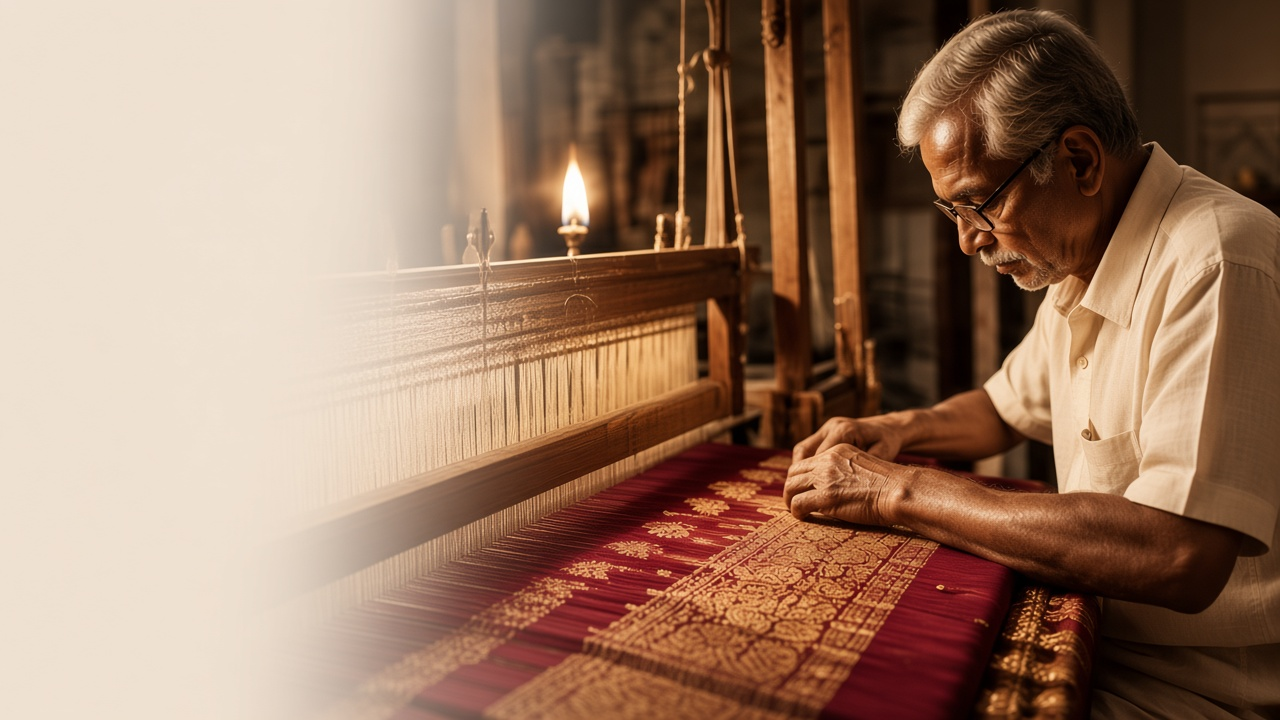
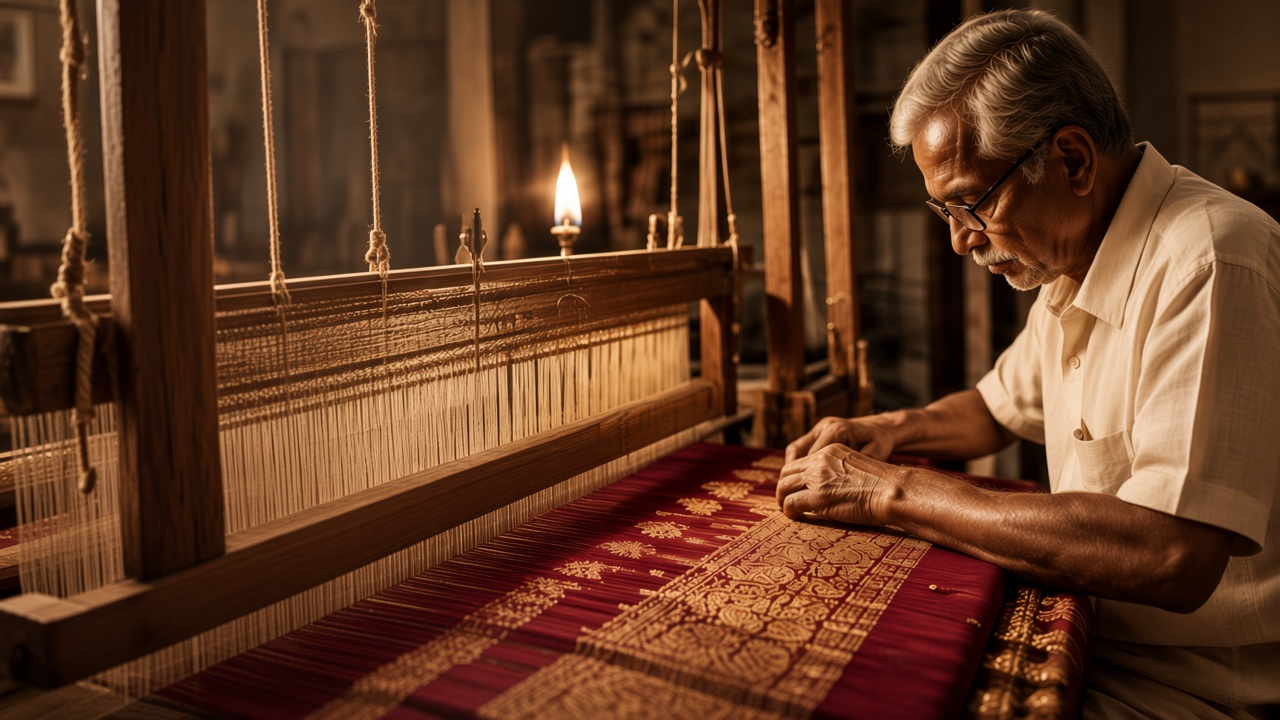
Let the preview shop buy without a sign-in, remove a piece at checkout, and show the loom without the white fade.

diff --git a/components/checkout/CheckoutView.tsx b/components/checkout/CheckoutView.tsx
@@ -5,8 +5,7 @@ import Link from "next/link";
 import { useEffect, useState } from "react";
 import { readAccount, type Account } from "@/lib/account";
 import { readAddresses, type Address } from "@/lib/addresses";
-import { bagTotal, bagUnits, formatInr, readBag, type BagItem } from "@/lib/bag";
-import { beginIntent } from "@/lib/intent";
+import { bagTotal, bagUnits, formatInr, readBag, removeBagItem, type BagItem } from "@/lib/bag";
 
 const STEPS = [
   ["01", "Contact"],
@@ -49,19 +48,6 @@ export default function CheckoutView() {
     );
   }
 
-  if (!account) {
-    return (
-      <div className="checkout__inner checkout__gate">
-        <p className="checkout__kicker">Checkout</p>
-        <h1>Sign in to continue</h1>
-        <p className="checkout__lead">There is no guest checkout. Your bag stays as it is, and you return here after signing in.</p>
-        <button type="button" className="checkout__btn" onClick={() => beginIntent({ type: "checkout", next: "/checkout" })}>
-          Sign in
-        </button>
-      </div>
-    );
-  }
-
   if (items.length === 0) {
     return (
       <div className="checkout__inner checkout__gate">
@@ -81,7 +67,7 @@ export default function CheckoutView() {
       <p className="checkout__kicker">Checkout</p>
       <h1>Review your silk</h1>
       <p className="checkout__lead">
-        Contact comes from your account. Payment is not connected, so this review cannot place an order.
+        Payment is not connected, so this review cannot place an order.
       </p>
       <ol className="checkout__steps">
         {STEPS.map(([index, label]) => (
@@ -97,8 +83,17 @@ export default function CheckoutView() {
           <section className="checkout__panel" aria-labelledby="checkout-contact">
             <p className="checkout__kicker">01</p>
             <h2 id="checkout-contact">Contact</h2>
-            <p className="checkout__address">{account.name}</p>
-            <p className="checkout__mail">{account.email}</p>
+            {account ? (
+              <>
+                <p className="checkout__address">{account.name}</p>
+                <p className="checkout__mail">{account.email}</p>
+              </>
+            ) : (
+              <>
+                <p className="checkout__address">Guest</p>
+                <p className="checkout__mail">Sign-in is not required for this preview.</p>
+              </>
+            )}
           </section>
 
           <section className="checkout__panel" aria-labelledby="checkout-address">
@@ -162,6 +157,9 @@ export default function CheckoutView() {
                   <h3><Link href={item.href}>{item.name}</Link></h3>
                   {item.detail ? <p>{item.detail}</p> : null}
                   <p>Qty {item.qty} · {formatInr(item.price * item.qty)}</p>
+                  <button type="button" className="checkout__remove" onClick={() => removeBagItem(item.id)}>
+                    Remove
+                  </button>
                 </div>
               </li>
             ))}

diff --git a/lib/intent.ts b/lib/intent.ts
@@ -40,9 +40,11 @@ export function applyIntent(intent: Intent) {
   if (intent.type === "save-creation") window.dispatchEvent(new Event("ksic:resume-save"));
 }
 
+const guestActions = new Set<Intent["type"]>(["add-bag", "buy-now", "checkout"]);
+
 /** Returns true when the action ran now. Otherwise the sign-in dialog opens. */
 export function beginIntent(intent: Intent) {
-  if (!readAccount()) {
+  if (!readAccount() && !guestActions.has(intent.type)) {
     localStorage.setItem(KEY, JSON.stringify(intent));
     window.dispatchEvent(new Event("ksic:auth-needed"));
     return false;

diff --git a/components/auth/AuthDialog.tsx b/components/auth/AuthDialog.tsx
@@ -67,7 +67,7 @@ export default function AuthDialog() {
         <p className="ux-kicker">Mysore Silk</p>
         <h2 id={titleId}>Sign in to continue</h2>
         <p className="auth__lead">
-          Browsing stays open. Your bag, wishlist, and saved saree need an account, and you will return to the same action.
+          Browsing stays open. Your wishlist and saved saree need an account, and you will return to the same action.
         </p>
         <form onSubmit={submit}>
           <label>

diff --git a/app/journal/page.tsx b/app/journal/page.tsx
@@ -79,7 +79,7 @@ export default function JournalPage() {
               </div>
               <div className="j-card__media">
                 <Image
-                  src="/journal/journal-loom.jpg"
+                  src="/journal/journal-loom.jpg?v=2"
                   alt="An artisan weaving maroon Mysore silk with gold zari on a handloom"
                   fill
                   priority

diff --git a/app/checkout/checkout.css b/app/checkout/checkout.css
@@ -119,6 +119,14 @@
   line-height: 1.15;
 }
 .checkout__line p { margin-top: 0.2rem; font-size: 0.88rem; }
+.checkout__remove {
+  margin-top: 0.45rem;
+  font-size: 0.64rem;
+  letter-spacing: 0.16em;
+  text-transform: uppercase;
+  color: #8a7f72;
+}
+.checkout__remove:hover { color: #14110e; }
 .checkout__total {
   display: flex;
   justify-content: space-between;

diff --git a/app/journal/journal.css b/app/journal/journal.css
@@ -235,7 +235,7 @@
 .j-banner:hover img,
 .j-portrait:hover img,
 .j-note:hover img { transform: scale(1.025); }
-.j-card__media img { object-position: 78% center; }
+.j-card__media img { object-position: center 42%; }
 .j-card--wear .j-card__media img { object-position: center 18%; }
 .j-vault__media img { object-position: 42% center; }
 .j-vault__media::after {

diff --git a/components/home/HomeBands.tsx b/components/home/HomeBands.tsx
@@ -136,7 +136,7 @@ const closeGates = [
     title: "Read the loom's story",
     copy: "Heritage chapters, read on their own. A story never drops a saree into the bag.",
     cta: "Read story",
-    image: "/journal/journal-loom.jpg",
+    image: "/journal/journal-loom.jpg?v=2",
     alt: "An artisan weaving maroon Mysore silk with gold zari",
   },
   {

diff --git a/app/ux.css b/app/ux.css
@@ -481,7 +481,7 @@ html.studio-active .dock { display: none; }
 }
 .home-gate__media img {
   object-fit: cover;
-  object-position: center 30%;
+  object-position: center 42%;
   transition: transform 800ms var(--ease);
 }
 .home-gate:hover .home-gate__media img { transform: scale(1.045); }
